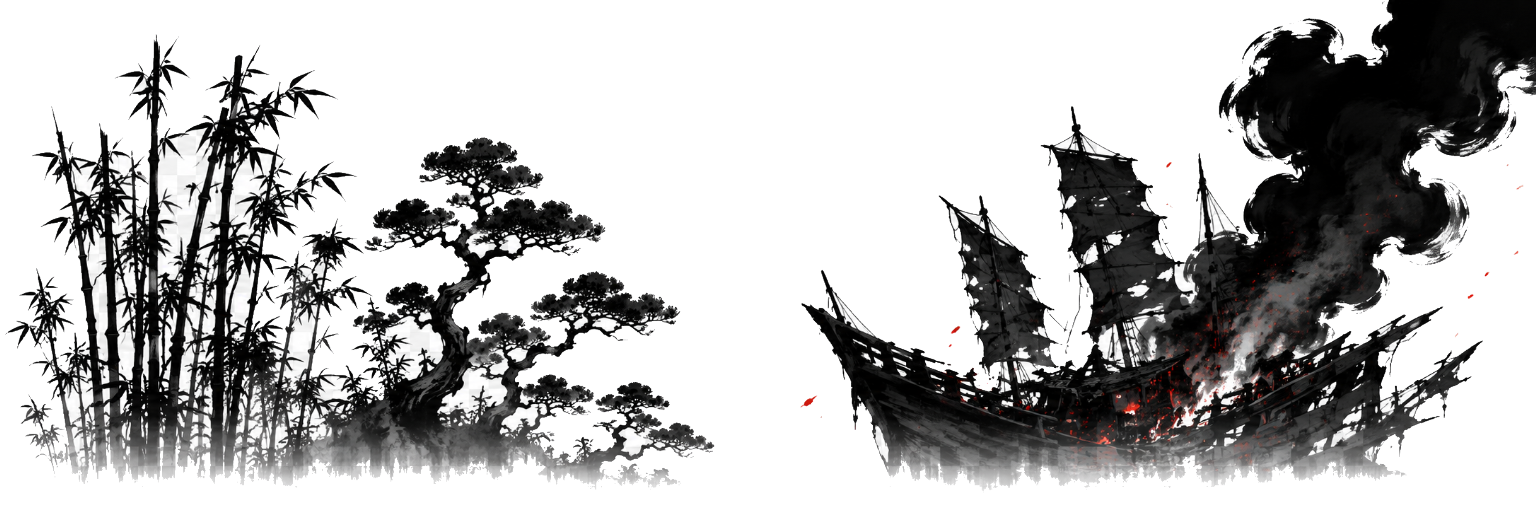
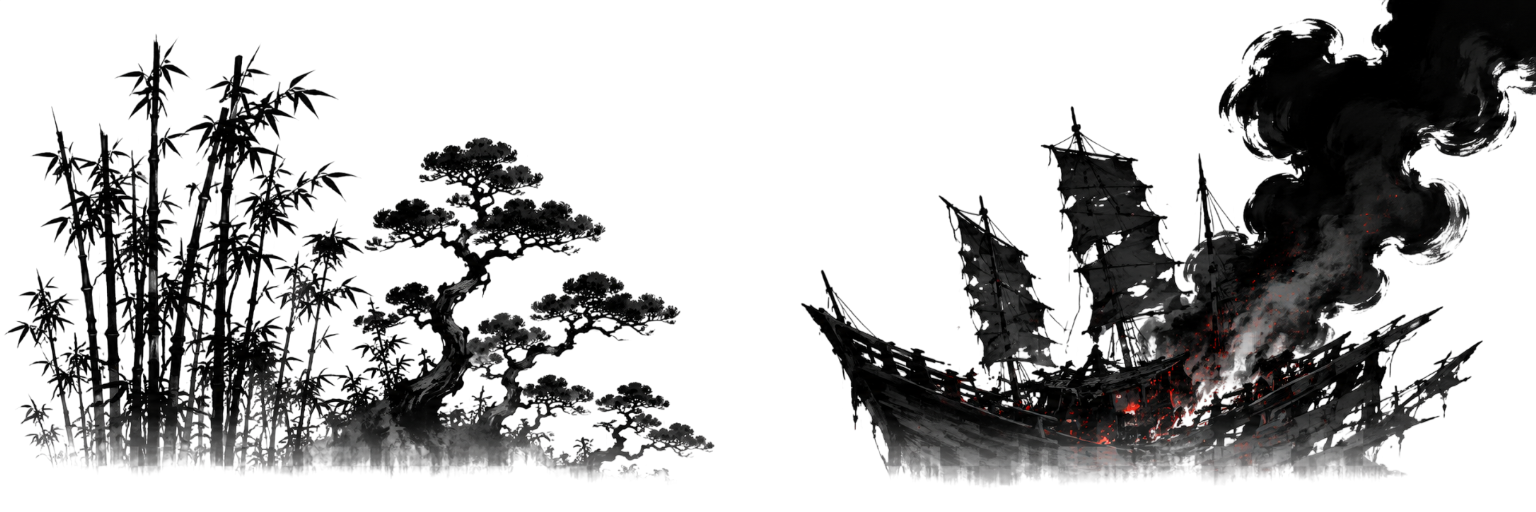
UI-спрайты и новые слои фона с настоящей прозрачностью
- client/assets/ui: кнопка удара (красный/чёрный кулак-энсо), чернильные
  рамки и красные мазки-заливки полос здоровья, баннеры победы/поражения,
  скрещённые катаны в меню; нарезка UI-кита с добивкой шахматки внутри рамок
- Заменены far/near слои фона на версии с настоящим альфа-каналом
- Кнопка и полосы HP переведены на спрайты (рамка инвертируется в белую
  через CSS filter); баннер подставляется по исходу матча

Claude-Session: https://claude.ai/code/session_017waudwAuZpCuTzLgEYDLnn

diff --git a/client/style.css b/client/style.css
@@ -47,6 +47,15 @@ html, body {
   backdrop-filter: blur(3px);
 }
 
+.menu-decor {
+  width: min(170px, 38vw);
+  margin-bottom: -34px;
+  filter: drop-shadow(0 0 14px rgba(255, 235, 210, 0.28)) drop-shadow(0 6px 12px rgba(0, 0, 0, 0.6));
+}
+@media (max-height: 520px) {
+  .menu-decor { display: none; } /* в низком ландшафте декору не хватает места */
+}
+
 .logo {
   font-size: clamp(44px, 12vw, 84px);
   font-weight: 900;
@@ -132,6 +141,16 @@ html, body {
 @keyframes spin { to { transform: rotate(360deg); } }
 
 /* ---------- итог ---------- */
+.over-hero {
+  position: relative;
+  display: flex; align-items: center; justify-content: center;
+}
+#over-banner {
+  width: min(560px, 92vw);
+  filter: drop-shadow(0 10px 30px rgba(0, 0, 0, 0.6));
+}
+.over-hero h2 { position: absolute; }
+
 #over-title {
   font-size: clamp(46px, 13vw, 88px);
   font-weight: 900; font-style: italic; letter-spacing: 0.05em;
@@ -165,19 +184,18 @@ html, body {
 .hp-bar { display: flex; gap: 5px; width: min(38vw, 240px); }
 .hp-side.right .hp-bar { flex-direction: row-reverse; }
 .hp-seg {
-  flex: 1; height: 16px;
-  border-radius: 5px;
-  background: rgba(0, 0, 0, 0.55);
-  border: 1px solid rgba(255, 255, 255, 0.25);
-  overflow: hidden;
-  transform: skewX(-14deg);
-  box-shadow: 0 2px 6px rgba(0,0,0,0.5);
+  flex: 1; height: 20px;
+  position: relative;
 }
-.hp-side.right .hp-seg { transform: skewX(14deg); }
+.hp-seg::before {
+  content: ''; position: absolute; inset: -14% -3%;
+  background: url(assets/ui/hp-frame.png) center / 100% 100% no-repeat;
+  filter: invert(1) drop-shadow(0 1px 3px rgba(0, 0, 0, 0.7));
+}
+.hp-side.right .hp-seg { transform: scaleX(-1); }
 .hp-seg i {
-  display: block; width: 100%; height: 100%;
-  background: linear-gradient(180deg, #ff7a5c, #e02a18 45%, #8e0f06);
-  box-shadow: inset 0 1px 0 rgba(255,255,255,0.55);
+  position: absolute; inset: 10% 7%;
+  background: url(assets/ui/hp-fill.png) center / 100% 100% no-repeat;
   transform-origin: left center;
   transition: transform 0.45s cubic-bezier(0.2, 0.9, 0.3, 1), filter 0.2s;
 }
@@ -216,26 +234,25 @@ html, body {
   position: absolute;
   right: calc(26px + env(safe-area-inset-right));
   bottom: calc(30px + env(safe-area-inset-bottom));
-  width: clamp(96px, 24vw, 132px); height: clamp(96px, 24vw, 132px);
+  width: clamp(104px, 26vw, 148px); height: clamp(104px, 26vw, 148px);
   border-radius: 50%;
   border: none;
   color: #fff;
   font: inherit; font-weight: 900; font-size: 19px; letter-spacing: 0.06em;
-  background: radial-gradient(circle at 35% 28%, #ff9d6a, var(--accent) 55%, #a82810 95%);
-  box-shadow: 0 8px 20px rgba(0, 0, 0, 0.5), inset 0 2px 4px rgba(255, 255, 255, 0.4), inset 0 -6px 12px rgba(90, 10, 0, 0.5);
-  overflow: hidden;
+  background: url(assets/ui/btn-ready.png) center / contain no-repeat;
+  filter: drop-shadow(0 6px 14px rgba(0, 0, 0, 0.55));
   touch-action: none;
 }
 #btn-attack:active { transform: scale(0.94); }
 #btn-attack.cooldown {
-  filter: saturate(0.35) brightness(0.75);
+  background-image: url(assets/ui/btn-cd.png);
 }
 #btn-attack.ready-pulse { animation: pulse 1.1s ease-in-out infinite; }
 @keyframes pulse {
-  0%, 100% { box-shadow: 0 8px 20px rgba(0,0,0,0.5), 0 0 0 0 rgba(255, 140, 60, 0.7), inset 0 2px 4px rgba(255,255,255,0.4); }
-  50% { box-shadow: 0 8px 20px rgba(0,0,0,0.5), 0 0 0 16px rgba(255, 140, 60, 0), inset 0 2px 4px rgba(255,255,255,0.4); }
+  0%, 100% { transform: scale(1); filter: drop-shadow(0 6px 14px rgba(0,0,0,0.55)); }
+  50% { transform: scale(1.06); filter: drop-shadow(0 6px 14px rgba(0,0,0,0.55)) drop-shadow(0 0 16px rgba(255, 80, 50, 0.55)); }
 }
-#attack-ring { position: absolute; inset: 0; border-radius: 50%; pointer-events: none; }
+#attack-ring { position: absolute; inset: 7%; border-radius: 50%; pointer-events: none; }
 #attack-label { position: relative; text-shadow: 0 2px 3px rgba(80, 10, 0, 0.7); pointer-events: none; }
 
 /* ---------- анонсы ---------- */

diff --git a/client/index.html b/client/index.html
@@ -45,12 +45,13 @@
     </div>
     <button id="btn-attack" type="button">
       <span id="attack-ring"></span>
-      <span id="attack-label">УДАР</span>
+      <span id="attack-label"></span>
     </button>
   </div>
 
   <!-- Меню -->
   <div id="screen-menu" class="screen">
+    <img class="menu-decor" src="assets/ui/katanas.png" alt="">
     <h1 class="logo"><span>ARENA</span><span class="logo-2">STRIKE</span></h1>
     <p class="tagline">Дуэль на два устройства • 2 удара до победы</p>
     <div class="menu-box">
@@ -77,7 +78,10 @@
 
   <!-- Итог матча -->
   <div id="screen-over" class="screen overlay hidden">
-    <h2 id="over-title">ПОБЕДА</h2>
+    <div class="over-hero">
+      <img id="over-banner" src="assets/ui/banner-win.png" alt="">
+      <h2 id="over-title">ПОБЕДА</h2>
+    </div>
     <p id="over-sub"></p>
     <div class="menu-box">
       <button id="btn-rematch" class="btn btn-primary" type="button">Играть снова</button>

diff --git a/client/js/input.js b/client/js/input.js
@@ -130,7 +130,7 @@ export class Input {
       if (this.btn.classList.contains('cooldown')) {
         this.btn.classList.remove('cooldown');
         this.ring.style.background = 'none';
-        this.label.textContent = 'УДАР';
+        this.label.textContent = ''; // кулак на кнопке говорит сам за себя
       }
       if (this.enabled) this.btn.classList.add('ready-pulse');
     }

diff --git a/client/js/ui.js b/client/js/ui.js
@@ -101,6 +101,7 @@ export const ui = {
     const title = $('over-title');
     title.textContent = win ? 'ПОБЕДА' : 'ПОРАЖЕНИЕ';
     title.className = win ? 'win' : 'lose';
+    $('over-banner').src = win ? 'assets/ui/banner-win.png' : 'assets/ui/banner-lose.png';
     $('over-sub').textContent = sub || '';
     $('over-status').textContent = '';
     $('btn-rematch').disabled = false;